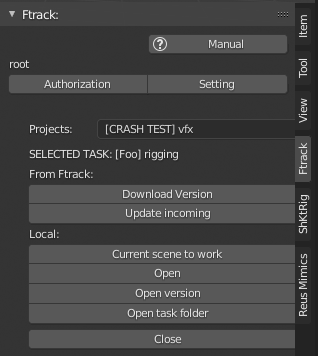
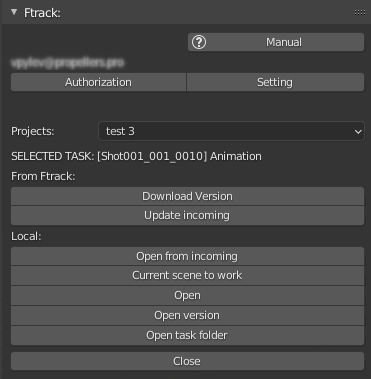
added Open from incoming

diff --git a/docs/source/manual/selected_panel_work.rst b/docs/source/manual/selected_panel_work.rst
@@ -1,7 +1,7 @@
 .. _work-selected-panel-page:
 
-Selected Panel (work)
-=====================
+Selected Panel (Working)
+========================
 
 Панель отображаемая при выборе задачи из списка, до взятия в работу.
 
@@ -42,6 +42,31 @@ Local:
 	*	открыта будет **top** версия рабочего файла.
 	*	статус задачи будет изменён на ``In progress``, при наличии другой задачи в таком статусе, она будет поставлена на паузу.
 	*	будет открыта :ref:`work-panel-page`
+
+
+.. _selected_panel_open_from_incoming:
+
+Open from incoming
+~~~~~~~~~~~~~~~~~~
+
+:guilabel:`Open from incoming` - Взятие в работу топ версии рабочего файла входящей задачи.
+
+* Клик по кнопке откроет список входящих задач из этого же ассета. 
+
+	.. image:: ../_static/images/open_from_incoming_tasks_list.png
+
+	* список содержит имена задач и статус "свежести" версии
+		
+		* при необходимости загрузить последнюю версию файла входящей задачи можно функцией :ref:`selected_panel_update_incoming` 
+
+	* клик по кнопке :guilabel:`Open`:
+
+		* скопирует файл из входящей задачи в **топ** версию текущей.
+		* изменит статус задачи на ``In progress``
+		* Будет открыта :ref:`work-panel-page`
+
+
+
 
 .. _selected_panel_current_scene_to_work:
 

diff --git a/docs/source/manual/selected_panel_check.rst b/docs/source/manual/selected_panel_check.rst
@@ -1,7 +1,7 @@
 .. _check-selected-panel-page:
 
-Selected Panel (check)
-======================
+Selected Panel (Checking)
+=========================
 
 Панель отображаемая при выборе задачи из списка, до взятия в работу в роли проверяющего.
 

diff --git a/docs/source/manual/check_panel.rst b/docs/source/manual/check_panel.rst
@@ -1,7 +1,7 @@
 .. _check-panel-page:
 
-Check Panel
-===========
+Checking Panel
+==============
 
 Панель отображаемая когда файл активной задачи ткрыт для проверки в :ref:`tasks_list_role` ``Cheking``.
 

diff --git a/docs/source/manual/work_panel.rst b/docs/source/manual/work_panel.rst
@@ -1,7 +1,7 @@
 .. _work-panel-page:
 
-Work Panel
-==========
+Working Panel
+=============
 
 Панель отображаемая когда файл активной задачи находится в работе.
 
